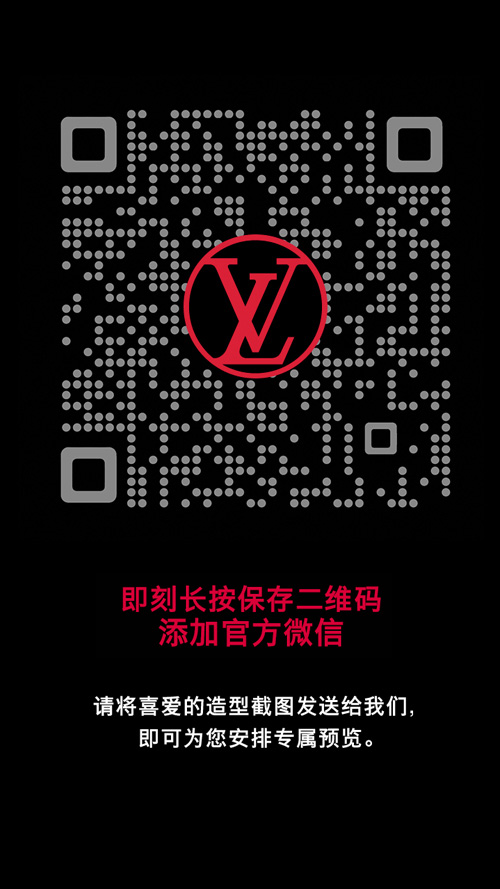
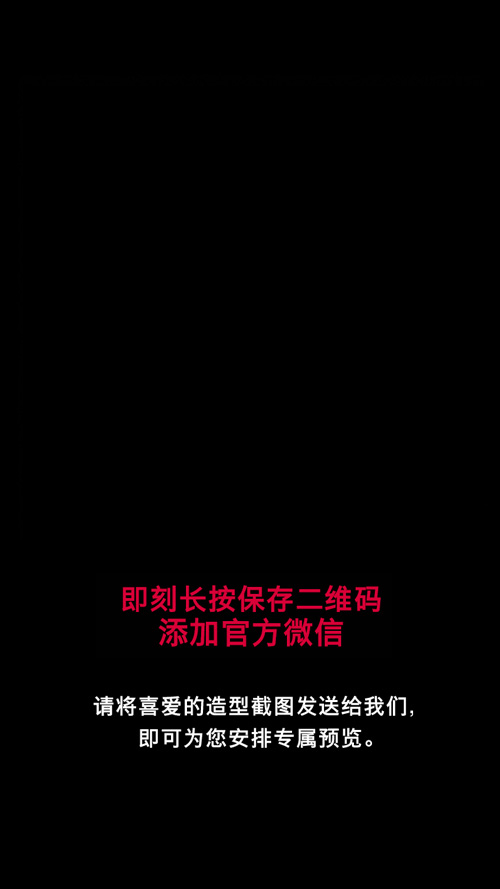
change saosao

Changed region(s): [[0.12, 0.1215, 0.9, 0.5771]]

diff --git a/saosao.html b/saosao.html
@@ -22,13 +22,22 @@
 			width:100%;
 			display: inline-block;
 		}
+		.logo{
+			width:100%;
+			position: absolute;
+			z-index: 2;
+			top:5%;
+			left:0;
+		}
 
 	</style>
 	<script type="text/javascript" src="js/script.js"></script>
 </head>
 
 <body>
-
+    <div class="logo">
+    	<img src="sao_logo.jpg" width="100%" />
+    </div>	
 	<div class="saosao">
 		<img src="saosao-1.jpg" width="100%"/>
 	</div>	
